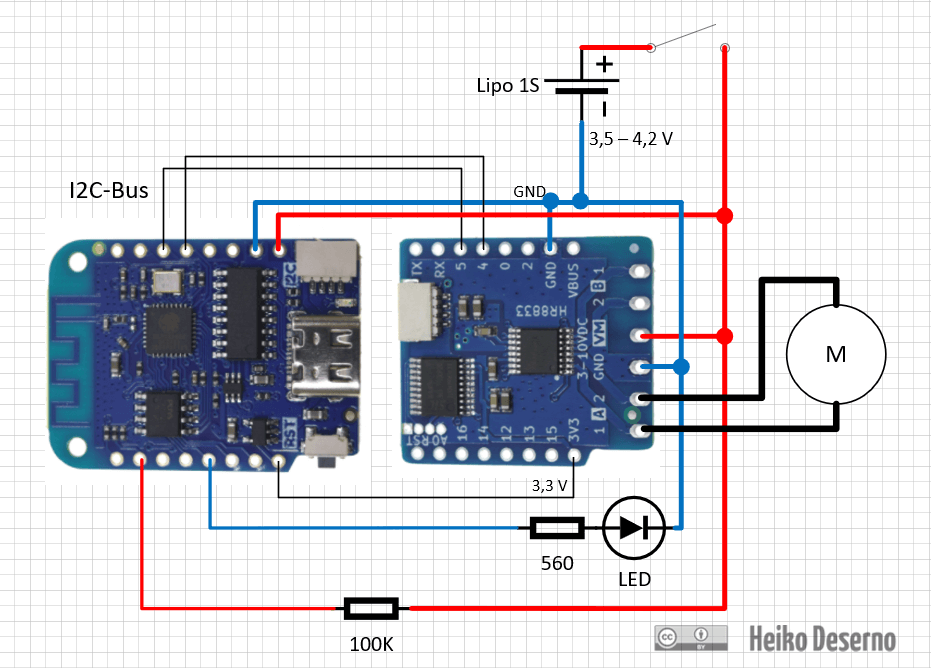
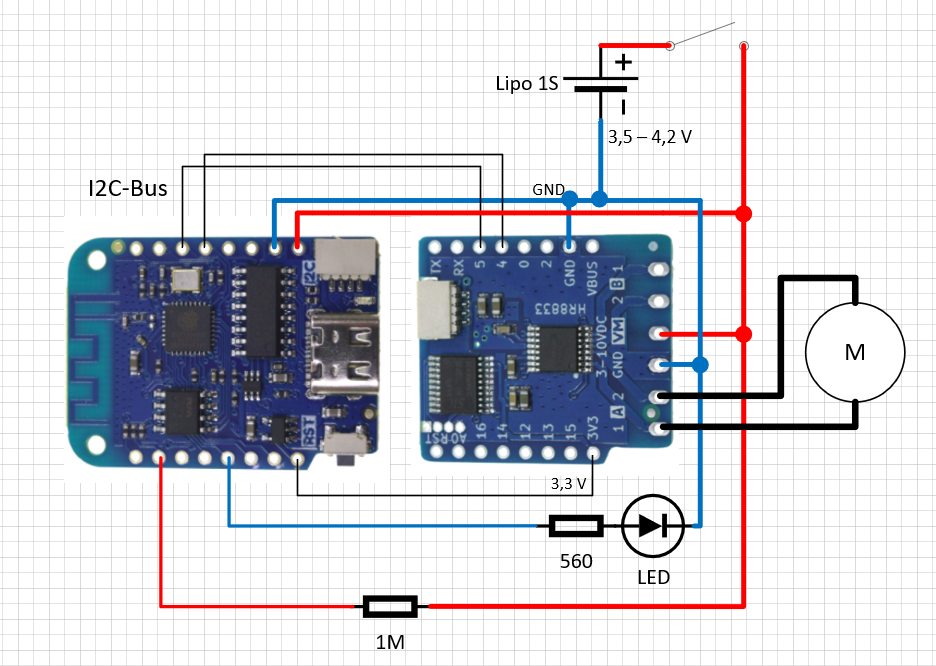
doc: dok und Schaltplan aktualisiert

Changed region(s): [[0.0, 0.0, 1.0, 1.0]]

diff --git a/README.md b/README.md
@@ -4,15 +4,19 @@ Heiko Deserno, 2022, [FB22](https://feldbahn22.de)
 
 FB22-Artikel zum Projekt: https://fb22.de/123
 
+> [!IMPORTANT]
+> Die Dokumentation ist veraltet und wird in Kürze aktualisiert.
+> Wichtig ist die Änderung des Widerstands zur Spannungsmessung von 100K auf 1M (Ab Version v1.0.0).
+
 `Microrail` ist eine Software zur drahtlosen Steuerung von Modellfahrzeugen. Zum System gehören neben dem hier beschriebenen Empfänger ein Sender (Handregler). Der Sender als Bediengerät mit Drehregler und Display ist ein separates Softwareprojekt (derzeit noch nicht vorhanden).
 
 ### Warum gibt es Microrail?
 
-Da die wunderbaren [Deltang](http://www.deltang.co.uk/)-Empfänger *Rx6* nicht mehr hergestellt werden und kaum noch lieferbar sind, habe ich nach einer geeigneten Alternative zur drahtlosen Steuerung von Modellbahn-Fahrzeugen (insbesondere Feldbahnen im Maßstab 1:13) gesucht. [Locoremote](http://www.locoremote.co.uk/) ist auf den ersten Blick eine brauchbare Alternative. Den für mich größten Makel wollte ich jedoch nicht hinnehmen: Eine Modellfahrzeug sollte nicht mit einem Handy gesteuert werden. Hier gehört ein richtiger Handregler mit Tasten und einem Drehregler her. Da *Locoremote* diese Funktion nicht unterstützt, kam die Idee einer eigenen Software. Die Idee zur dieser Software stammt urspünglich von [Olle Sköld](http://depronized.com/), der eine solche Steuerung für seine [Hectorrail](https://www.thingiverse.com/thing:2575667)-Lokomotive vorstellte. `Microrail` nutzt eine andere Hardware-Plattform sowie ein modifiziertes Bedienkonzept. Auch die Idee des Handsenders stammt von ihm. Auf [Thingiverse](https://www.thingiverse.com/thing:3252986) stellte er einen Prototypen vor, der eher als Idee statt einer fertigen Lösung zu verstehen ist. 
+Da die wunderbaren [Deltang](http://www.deltang.co.uk/)-Empfänger *Rx6* nicht mehr hergestellt werden und kaum noch lieferbar sind, habe ich nach einer geeigneten Alternative zur drahtlosen Steuerung von Modellbahn-Fahrzeugen (insbesondere Feldbahnen im Maßstab 1:13) gesucht. [Locoremote](http://www.locoremote.co.uk/) ist auf den ersten Blick eine brauchbare Alternative. Den für mich größten Makel wollte ich jedoch nicht hinnehmen: Eine Modellfahrzeug sollte nicht mit einem Handy gesteuert werden. Hier gehört ein richtiger Handregler mit Tasten und einem Drehregler her. Da *Locoremote* diese Funktion nicht unterstützt, kam die Idee einer eigenen Software. Die Idee zur dieser Software stammt urspünglich von [Olle Sköld](http://depronized.com/), der eine solche Steuerung für seine [Hectorrail](https://www.thingiverse.com/thing:2575667)-Lokomotive vorstellte. `Microrail` nutzt eine andere Hardware-Plattform sowie ein modifiziertes Bedienkonzept. Auch die Idee des Handsenders stammt von ihm. Auf [Thingiverse](https://www.thingiverse.com/thing:3252986) stellte er einen Prototypen vor, der eher als Idee statt einer fertigen Lösung zu verstehen ist.
 
 ## Microrail-Receiver
 
-Der `Microrail`-Receiver bzw. Empfänger ist die Komponente zur Motorensteuerung. Ein  Microcontroller und eine Motoren-Steuerplatine genügen für diese Funktion. Der Microcontroller erstellt einen eigenen WLAN-Accesspoint. WLAN-fähige Clients wie Mobiltelefone oder Tablets können sich mit dem WLAN des Microcontrollers verbinden und die UI über die Adresse http://192.168.1.4 aufrufen. Die UI enthält Buttons zur Steuerung von Geschwindigkeit und Fahrtrichtung. 
+Der `Microrail`-Receiver bzw. Empfänger ist die Komponente zur Motorensteuerung. Ein  Microcontroller und eine Motoren-Steuerplatine genügen für diese Funktion. Der Microcontroller erstellt einen eigenen WLAN-Accesspoint. WLAN-fähige Clients wie Mobiltelefone oder Tablets können sich mit dem WLAN des Microcontrollers verbinden und die UI über die Adresse http://192.168.1.4 aufrufen. Die UI enthält Buttons zur Steuerung von Geschwindigkeit und Fahrtrichtung.
 
 ### Hardware
 
@@ -20,7 +24,7 @@ Als Microcontroller wird ein [Lolin D1 mini](https://www.wemos.cc/en/latest/d1/d
 
 - [Lolin Motorshield V 2.0.0](https://www.wemos.cc/en/latest/d1_mini_shield/motor.html), TB6612FNG Chipsatz, schwer lieferbar
 - [Lolin Motorshield HR8833](https://www.wemos.cc/en/latest/d1_mini_shield/hr8833_motor.html), HR8833 Chipsatz
-- [Lolin Motorshield AT8870](https://www.wemos.cc/en/latest/d1_mini_shield/at8870_motor.html), AT8870 Chipsatz 
+- [Lolin Motorshield AT8870](https://www.wemos.cc/en/latest/d1_mini_shield/at8870_motor.html), AT8870 Chipsatz
 
 Alle diese Platinen werden über den *I2C*-Bus mit dem *D1 mini* verbunden. Die Software-Steuerung basiert auf der [Lolin-Treiberlib](https://github.com/wemos/LOLIN_I2C_MOTOR_Library).
 
@@ -68,7 +72,7 @@ Mit jeder Client-Verbindung wird ein Kanal im Websocket-Server geöffnet. Der Se
 
 #### Projekt/Entwicklungsumgebung
 
-Das Software-Projekt ist ein [PlatformIO](https://platformio.org/)-Projekt. Zur Entwicklung und Übersetzung des Codes wird [VS Code](https://code.visualstudio.com/) mit der Erweiterung *PlatformIO* benötigt. 
+Das Software-Projekt ist ein [PlatformIO](https://platformio.org/)-Projekt. Zur Entwicklung und Übersetzung des Codes wird [VS Code](https://code.visualstudio.com/) mit der Erweiterung *PlatformIO* benötigt.
 
 #### Code-Struktur
 
@@ -105,11 +109,10 @@ Die WebUi empfängt Ereignisse über den Websocket:
 - Batteriespannung
 - Software-Version
 
-Bei Geschwidigkeiten > 0 kann die Fahrtrichtung nicht geändert werden. Die Buttons sind deaktiviert. 
+Bei Geschwidigkeiten > 0 kann die Fahrtrichtung nicht geändert werden. Die Buttons sind deaktiviert.
 
 ![Mircorail-WebUi](/images/microrail-ui-2.png)
 
 # Ausblick
 
 Die Steuerung des `Microrail`-Empfängers über die Web-Oberfläche ist nur ein erster Schritt. Das große Ziel ist ein eigenständiger `Microrail`-Sender mit Tasten, Drehregler und Display. Der Sender startet WLAN und einen Websocket-Client und kommuniziert mit dem Empfänger.
-
